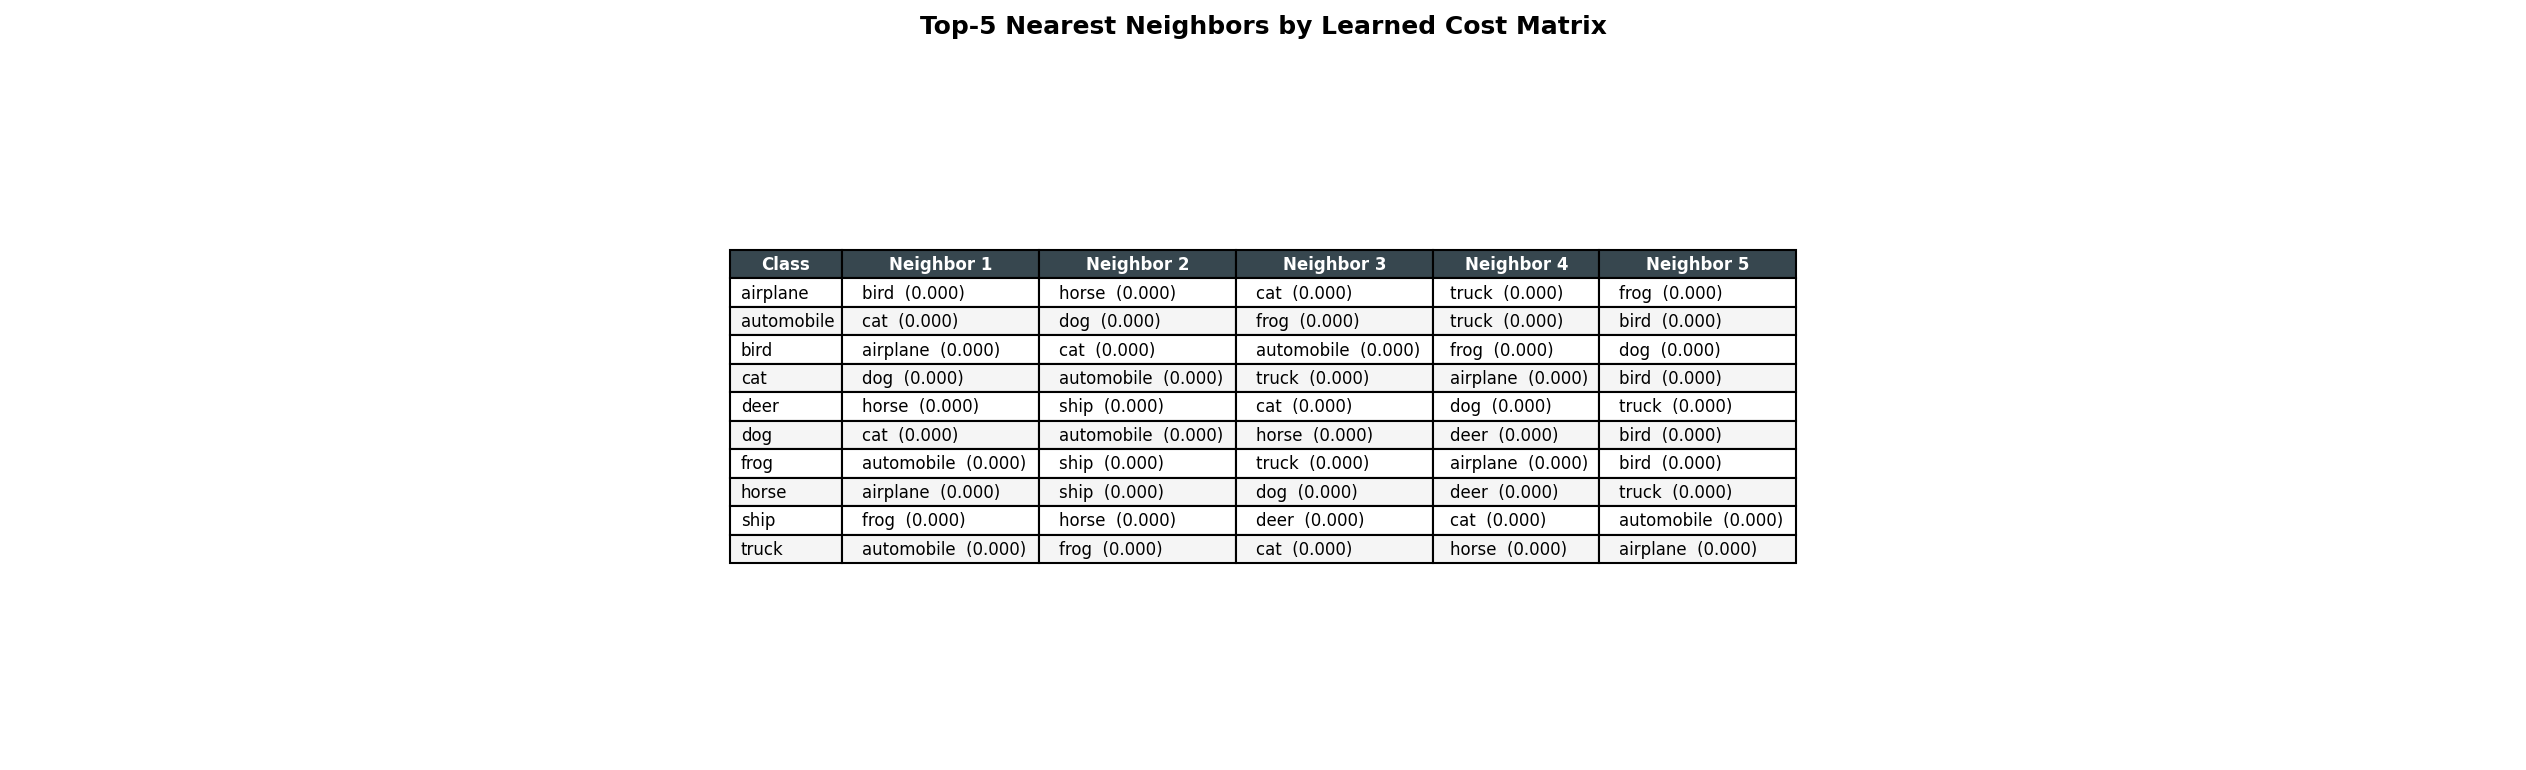
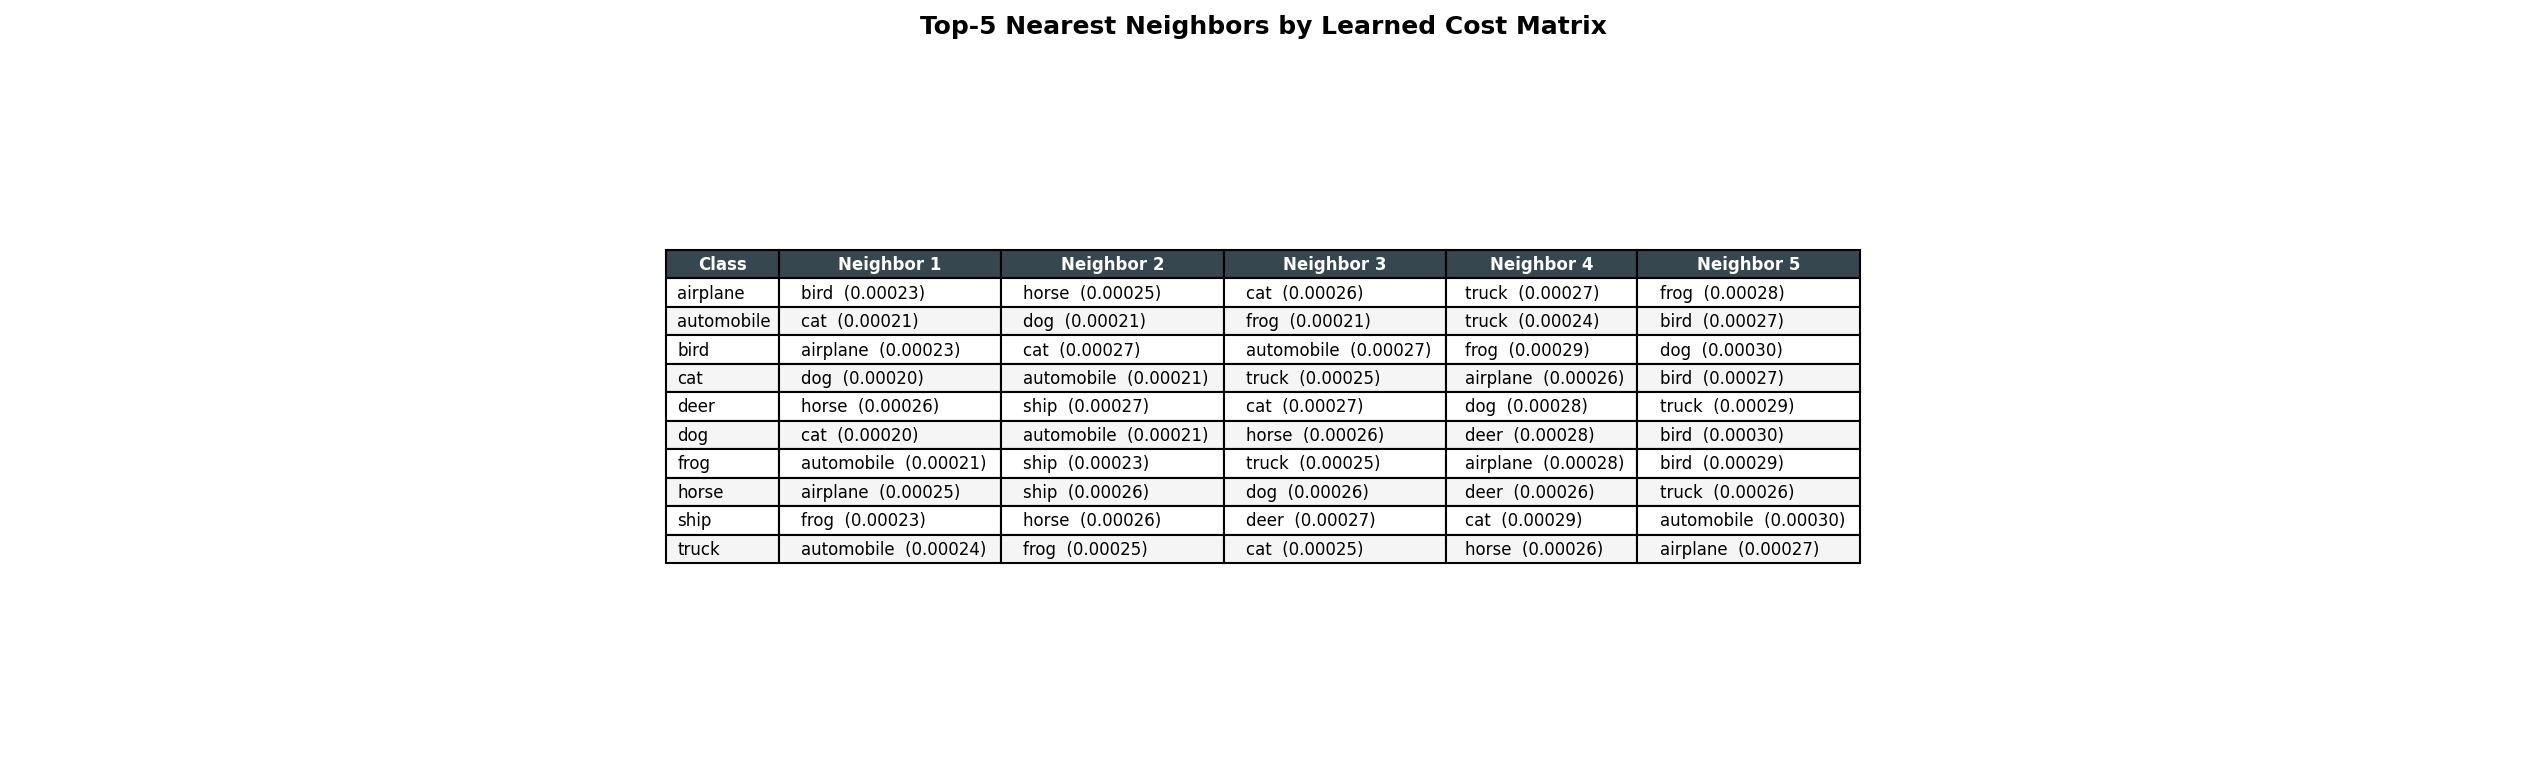
review changes

Changed region(s): [[0.247, 0.3117, 0.7411, 0.7481]]

diff --git a/evaluate.py b/evaluate.py
@@ -5,6 +5,7 @@ Loads all saved checkpoints, prints a comparison table, generates visualizations
 and optionally runs:
   --alignment   Teacher-student alignment metrics (KL, Sinkhorn W_eps, cosine, agreement)
   --robustness  CIFAR-10-C / CIFAR-100-C corruption sweep (downloads ~2.9 GB on first run)
+  --no_entropy  Skip predictive entropy measurement (runs by default)
 
 Usage:
     python evaluate.py --dataset cifar10 --checkpoint_dir ./checkpoints/cifar10
@@ -16,6 +17,7 @@ Usage:
 
 import argparse
 import csv
+import math
 import os
 import glob
 import re
@@ -682,13 +684,51 @@ def _plot_robustness_curves(res: dict, dataset: str, save_path: str):
     print(f"Robustness curves saved to {save_path}")
 
 
+# ── Entropy ────────────────────────────────────────────────────────────────────
+
+def run_entropy(args, models: dict, test_loader) -> dict:
+    """Compute predictive entropy for each loaded model."""
+    device = get_device()
+    num_classes = 10 if args.dataset == "cifar10" else 100
+
+    print("\n" + "=" * 57)
+    print("OUTPUT ENTROPY (test set)")
+    print("=" * 57)
+    print(f"{'Method':<25} | {'Mean Entropy':>14} | {'Max Entropy':>12}")
+    print("-" * 57)
+
+    res = {}
+    for name, model in models.items():
+        probs, _ = collect_predictions(model, test_loader, device)
+        entropy = torch.distributions.Categorical(probs=probs).entropy()
+        mean_h = entropy.mean().item()
+        max_h  = entropy.max().item()
+        res[name] = {"mean": mean_h, "max": max_h}
+        print(f"{name:<25} | {mean_h:>14.4f} | {max_h:>12.4f}")
+
+    print(f"\n(Max possible entropy for {num_classes} classes"
+          f" = ln({num_classes}) = {math.log(num_classes):.4f})")
+    print("=" * 57)
+
+    if getattr(args, "entropy_csv", None) and res:
+        with open(args.entropy_csv, "w", newline="") as f:
+            w = csv.writer(f)
+            w.writerow(["method", "mean_entropy", "max_entropy"])
+            for name, m in res.items():
+                w.writerow([name, m["mean"], m["max"]])
+        print(f"entropy csv → {args.entropy_csv}")
+
+    return res
+
+
 # ── Multi-seed ─────────────────────────────────────────────────────────────────
 
 def run_multi_seed(args):
     """Train all methods across multiple seeds and report mean ± std accuracy."""
     from train import train_distillation, train_student_baseline, set_seed
 
-    seeds = list(range(args.seed, args.seed + args.num_seeds))
+    _default_seeds = [42, 123, 456, 789, 1234]
+    seeds = _default_seeds[:args.num_seeds]
     all_results = {m: [] for m in ["student_baseline", "kl_kd", "sinkhorn_kd", "adaptive_sinkhorn_kd"]}
 
     for seed in seeds:
@@ -733,6 +773,8 @@ def parse_args():
                         help="Run teacher-student alignment metrics.")
     parser.add_argument("--robustness", action="store_true",
                         help="Run CIFAR-C robustness sweep (~2.9 GB download on first run).")
+    parser.add_argument("--no_entropy", action="store_true",
+                        help="Skip predictive entropy measurement.")
 
     # Alignment options
     parser.add_argument("--temperature", type=float, default=4.0,
@@ -753,6 +795,8 @@ def parse_args():
                         help="Keep the downloaded CIFAR-C tar after extraction (~2.9 GB).")
     parser.add_argument("--robustness_csv", default=None,
                         help="Save robustness results to this CSV path.")
+    parser.add_argument("--entropy_csv", default=None,
+                        help="Save entropy results to this CSV path.")
 
     return parser.parse_args()
 
@@ -771,8 +815,10 @@ def main():
     results, adapt_ckpt, predictions, models, test_loader = collect_results(args)
     print_comparison_table(results)
 
-    alignment_res = run_alignment(args, models, test_loader) if args.alignment else None
+    alignment_res  = run_alignment(args, models, test_loader) if args.alignment else None
     robustness_res = run_robustness(args, models) if args.robustness else None
+    if not args.no_entropy:
+        run_entropy(args, models, test_loader)
 
     generate_visualizations(args, results, adapt_ckpt, predictions,
                             alignment_res=alignment_res,

diff --git a/utils/visualization.py b/utils/visualization.py
@@ -533,7 +533,7 @@ def plot_nearest_neighbor_costs(
             header = f"{'Class':<22}" + "".join(f"  NN{n+1:<2} (cost)" for n in range(k))
             f.write(header + "\n" + "-" * len(header) + "\n")
             for cls_name, neighbors in all_rows:
-                nn_str = "".join(f"  {n:<18} ({c:.3f})" for n, c in neighbors)
+                nn_str = "".join(f"  {n:<18} ({c:.5f})" for n, c in neighbors)
                 f.write(f"{cls_name:<22}{nn_str}\n")
         print(f"Full nearest-neighbor table saved to {txt_path}")
 
@@ -555,7 +555,7 @@ def plot_nearest_neighbor_costs(
 
     col_labels = ["Class"] + [f"Neighbor {n + 1}" for n in range(k)]
     table_data = [
-        [cls_name] + [f"{n}  ({c:.3f})" for n, c in neighbors]
+        [cls_name] + [f"{n}  ({c:.5f})" for n, c in neighbors]
         for cls_name, neighbors in rep_rows
     ]
 

diff --git a/README.md b/README.md
@@ -343,9 +343,7 @@ bash experiments/run_all.sh cifar100
 ### Multi-Seed Statistical Significance
 
 ```bash
-python evaluate.py --dataset cifar10 \
-    --checkpoint_dir ./checkpoints/cifar10 \
-    --run_seeds --num_seeds 3
+    python evaluate.py --dataset cifar10 --run_seeds --num_seeds 3
 ```
 
 Trains all 4 variants per seed and reports mean ± std accuracy.
